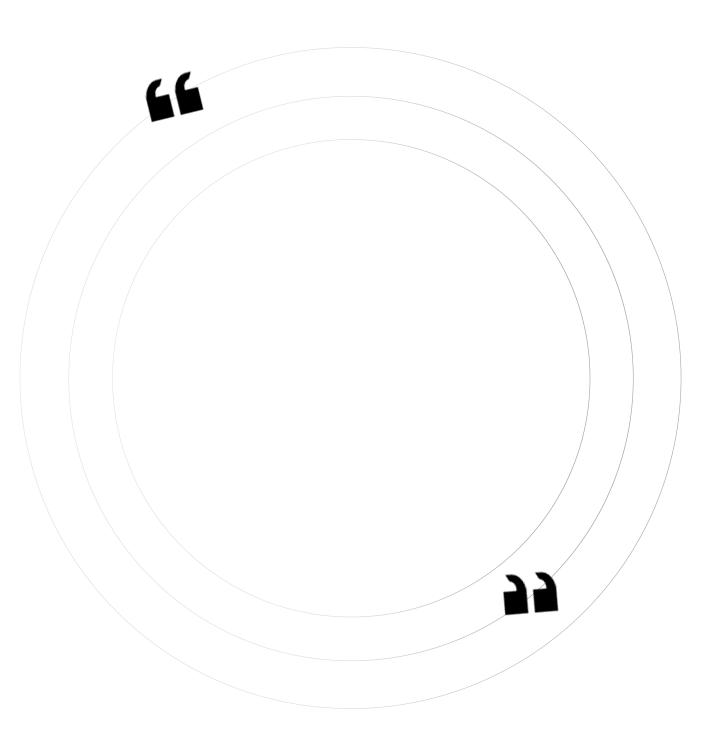
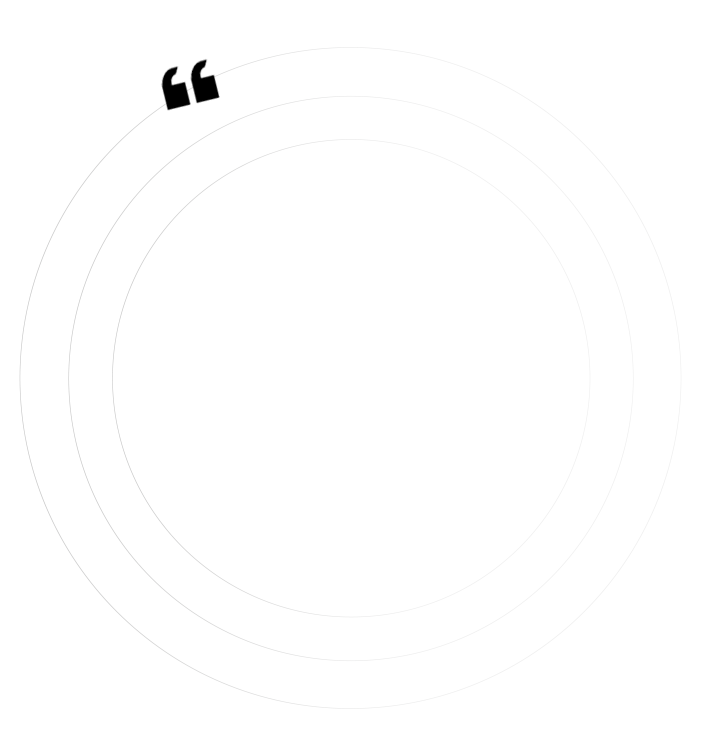
landing new changes fixed

Changed region(s): [[0.2097, 0.0608, 0.3295, 0.1825], [0.719, 0.7606, 0.8088, 0.8214]]

diff --git a/src/assets/css/Testimonial.css b/src/assets/css/Testimonial.css
@@ -6,36 +6,39 @@
   
   .testimonial-section {
     position: relative;
-    padding-top: 80px;
-    padding-bottom: 210px;
     overflow: hidden;
+    padding: 80px 0;
+  
   }
   
-  /* .testimonial-section:before {
-    position: absolute;
-    left: -200px;
-    top: 22%;
-    background-image: url('../images/ring-circlenew.png');
-    background-repeat: no-repeat;
-    background-position: center;
-    width: 701px;
-    height: 756px;
-    content: "";
-    animation: fa-spin 20s infinite alternate;
-  } */
-
   .testimonial-section:before {
     position: absolute;
-    right: 200px;
-    top: 15%;
-    background-image: url('../images/test-circle.png');
+    left: 0; /* Align to the left side */
+    top: 20%;
+    background-image: url('../images//test-circle.png');
     background-repeat: no-repeat;
     background-position: center;
     width: 600px;
     height: 100vh;
     content: "";
-    animation: custom-spin 8s infinite alternate;
-  }
+    animation: custom-spin 11s infinite alternate ;
+}
+
+.testimonial-section:after {
+    position: absolute;
+    right: 0; /* Align to the right side */
+    top: 20%;
+    background-image: url('../images/test-circle2.png'); /* Same image as before */
+    background-repeat: no-repeat;
+    background-position: center;
+    width: 600px;
+    height: 100vh;
+    content: "";
+    animation: custom-spin 11s infinite alternate ;
+    z-index: -1;
+}
+
+
   @keyframes custom-spin {
     0% {
       transform: rotate(0deg);
@@ -76,11 +79,12 @@
     position: relative;
     display: block;
     font-size: 18px;
-    line-height: 32px;
+    line-height: 25px;
     color: #282331;
     font-weight: 400;
     margin-bottom: 50px;
     font-family: "Muli", sans-serif;
+    min-height: 50px;
   }
   
   .info-box {

diff --git a/src/Pages/LandingPage.jsx b/src/Pages/LandingPage.jsx
@@ -9,7 +9,7 @@ import MobDev from "../assets/images/mobile-phone.gif";
 import Ecom from "../assets/images/online-shopping.gif";
 import UIUX from "../assets/images/UIUX-ICON.gif";
 import Archi from "../assets/images/architecture-ICON.gif";
-import TDICON from "../assets/images/3d-ICON.gif";
+import Crm from "../assets/images/crm-icon.gif";
 
 import CursorMouse from "../components/CustomCursor";
 import Testimonial from "./Testimonial";
@@ -318,7 +318,7 @@ function LandingPage() {
                 <img src={Archi} alt="Ecommerce" width={120} />
               </div>
               <div className="service-title">
-                <h3>Architecture</h3>
+                <h3>Architecture 3D </h3>
               </div>
               <div className="service-description">
                 <p>
@@ -330,10 +330,10 @@ function LandingPage() {
 
             <div className="col-md-3 text-center service-item1">
               <div className="service-icon1">
-                <img src={TDICON} alt="UIUX" width={120} />
+                <img src={Crm} alt="UIUX" width={120} />
               </div>
-              <div className="service-title1">
-                <h3>3D Rendering</h3>
+              <div className="service-title1-crm">
+                <h3>CRM</h3>
               </div>
               <div className="service-description1">
                 <p>

diff --git a/src/assets/css/LandingPage.css b/src/assets/css/LandingPage.css
@@ -203,7 +203,7 @@
   right: 0;
   bottom: 0;
   color: #f9f9f9;
-  padding: 20px;
+  padding: 0 20px;
   box-sizing: border-box;
   justify-content: center;
   align-items: center;
@@ -213,7 +213,7 @@
 }
 
 .service-description p {
-  font-size: 14px;
+  font-size: 15px;
 }
 
 .service-item:hover .service-description {
@@ -238,8 +238,9 @@
   transform: translateX(330px);
   position: absolute;
   font-size: 10px;
-
 }
+
+
 
 .service-item::before,
 .service-item::after {
@@ -336,6 +337,19 @@
 .service-item1:hover .service-title1 {
   color: #000000;
   transform: translateX(-250px);
+  position: absolute;
+}
+
+.service-title1-crm 
+{
+  color: #000000;
+  font-size: 25px;
+}
+
+
+.service-item1:hover .service-title1-crm {
+  color: #000000;
+  transform: translateX(-200px);
   position: absolute;
 }
 
